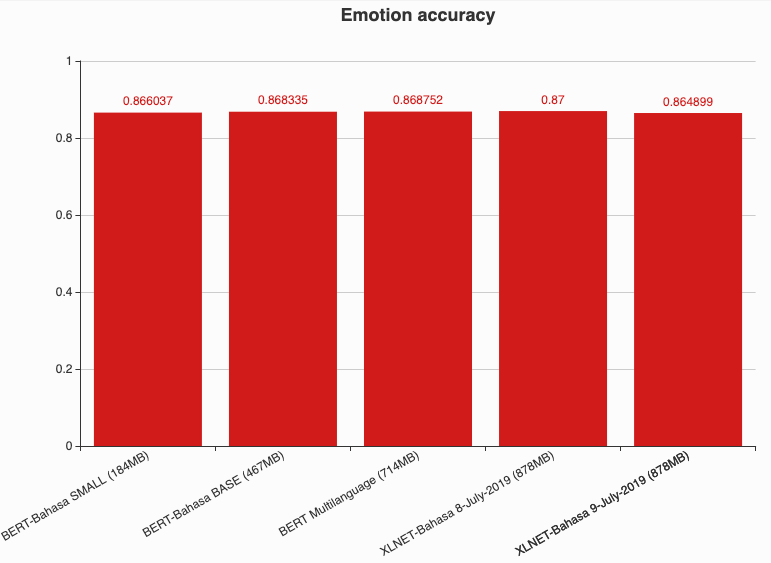
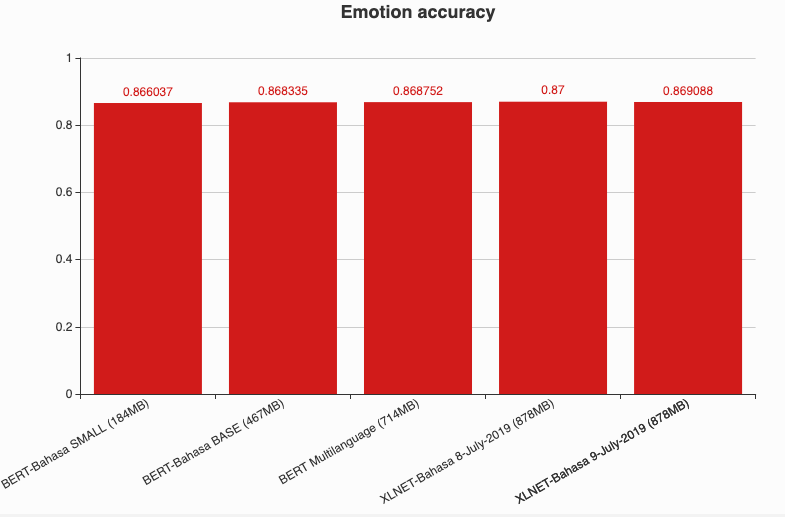
update xlnet

diff --git a/xlnet/barplot/subjective-accuracy.js b/xlnet/barplot/subjective-accuracy.js
@@ -19,9 +19,13 @@ option = {
     grid:{
       bottom: 120
     },
+    title: {
+        left: 'center',
+        text: 'Subjectivity accuracy',
+    },
     backgroundColor:'rgb(252,252,252)',
     series: [{
-        data: [0.931452, 0.939288, 0.948821, 0.910186, 0.883091],
+        data: [0.931452, 0.939288, 0.948821, 0.910186, 0.911691],
         type: 'bar',
         label: {
                 normal: {

diff --git a/xlnet/barplot/emotion-accuracy.js b/xlnet/barplot/emotion-accuracy.js
@@ -25,7 +25,7 @@ option = {
     },
     backgroundColor:'rgb(252,252,252)',
     series: [{
-        data: [0.866037, 0.868335, 0.868752, 0.87, 0.864899],
+        data: [0.866037, 0.868335, 0.868752, 0.87, 0.869088],
         type: 'bar',
         label: {
                 normal: {

diff --git a/xlnet/README.md b/xlnet/README.md
@@ -164,7 +164,7 @@ python3 train_gpu.py \
 
 **Vocab size 32k, Case Insensitive, Train on 500MB dataset, BASE size (878MB)**.
 
-2.  9th July 2019, [xlnet-9-july-2019.tar.gz](https://huseinhouse-storage.s3-ap-southeast-1.amazonaws.com/bert-bahasa/xlnet-9-july-2019.tar.gz).
+2.  9th July 2019, [xlnet-9-july-2019.tar.gz](https://huseinhouse-storage.s3-ap-southeast-1.amazonaws.com/bert-bahasa/xlnet-9-july-2019-v2.tar.gz).
 
 **Vocab size 32k, Case Sensitive, Train on 1.21GB dataset, BASE size (878MB)**.
 
@@ -187,11 +187,9 @@ Link to [notebooks](finetune-emotion).
 
 ## Feedbacks
 
-1. we will add comparison for abstractive summarization using ROUGE-2, but this may take sometime, because its a seq2seq model, encoder is XLNET, decoder is pointer generator.
+1. Feel free to suggest me to add more any kind of finetune, like, QA, Neural Machine Translation and etc.
 
-2. Feel free to suggest me to add more any kind of finetune, like, QA, Neural Machine Translation and etc.
-
-3. Some of models still on training, so you might want to keep check updates from here. Every tensorflow checkpoints will auto push to S3 and override.
+2. Some of models still on training, so you might want to keep check updates from here. Every tensorflow checkpoints will auto push to S3 and override.
 
 ## Citation
 
